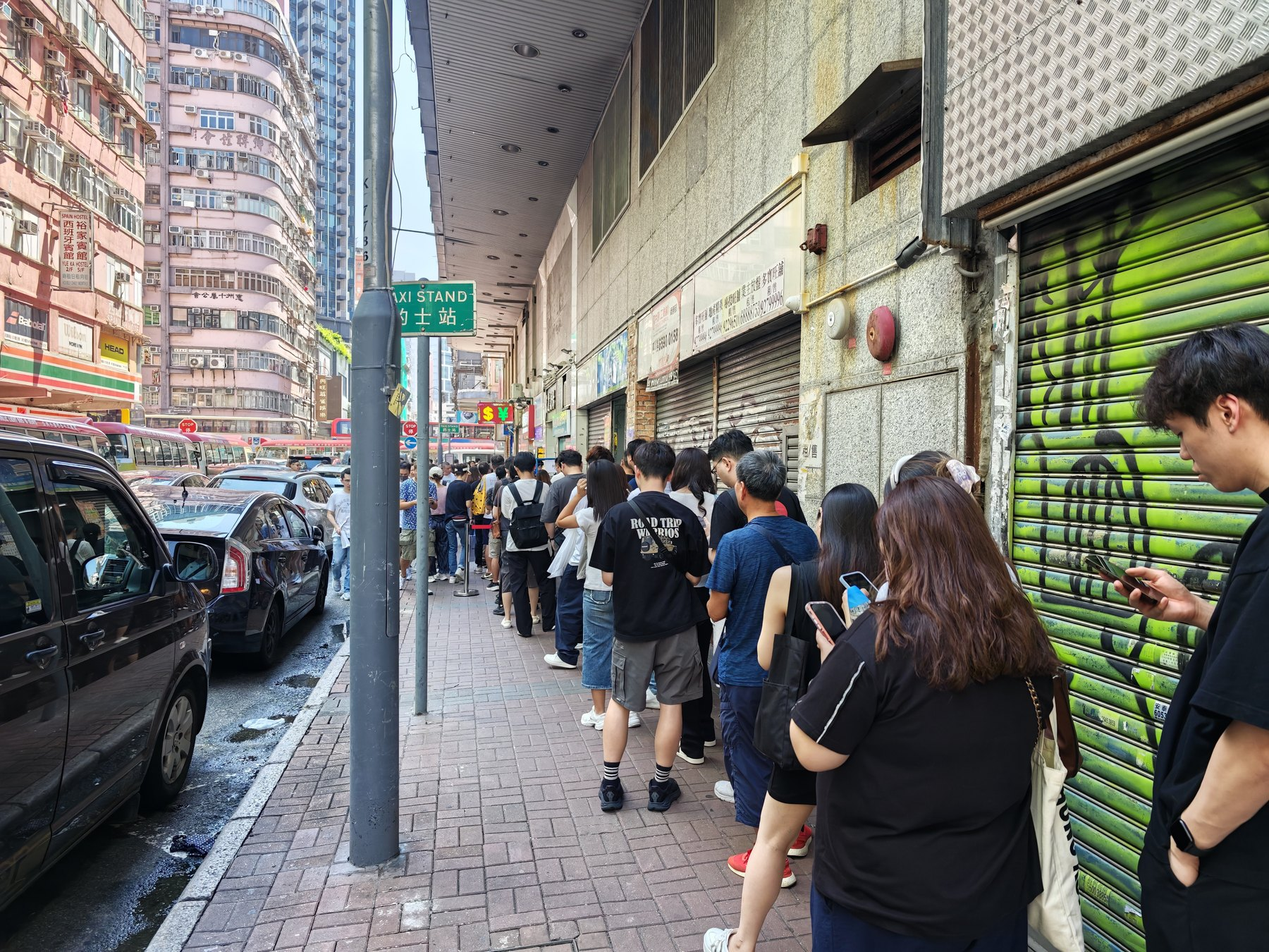
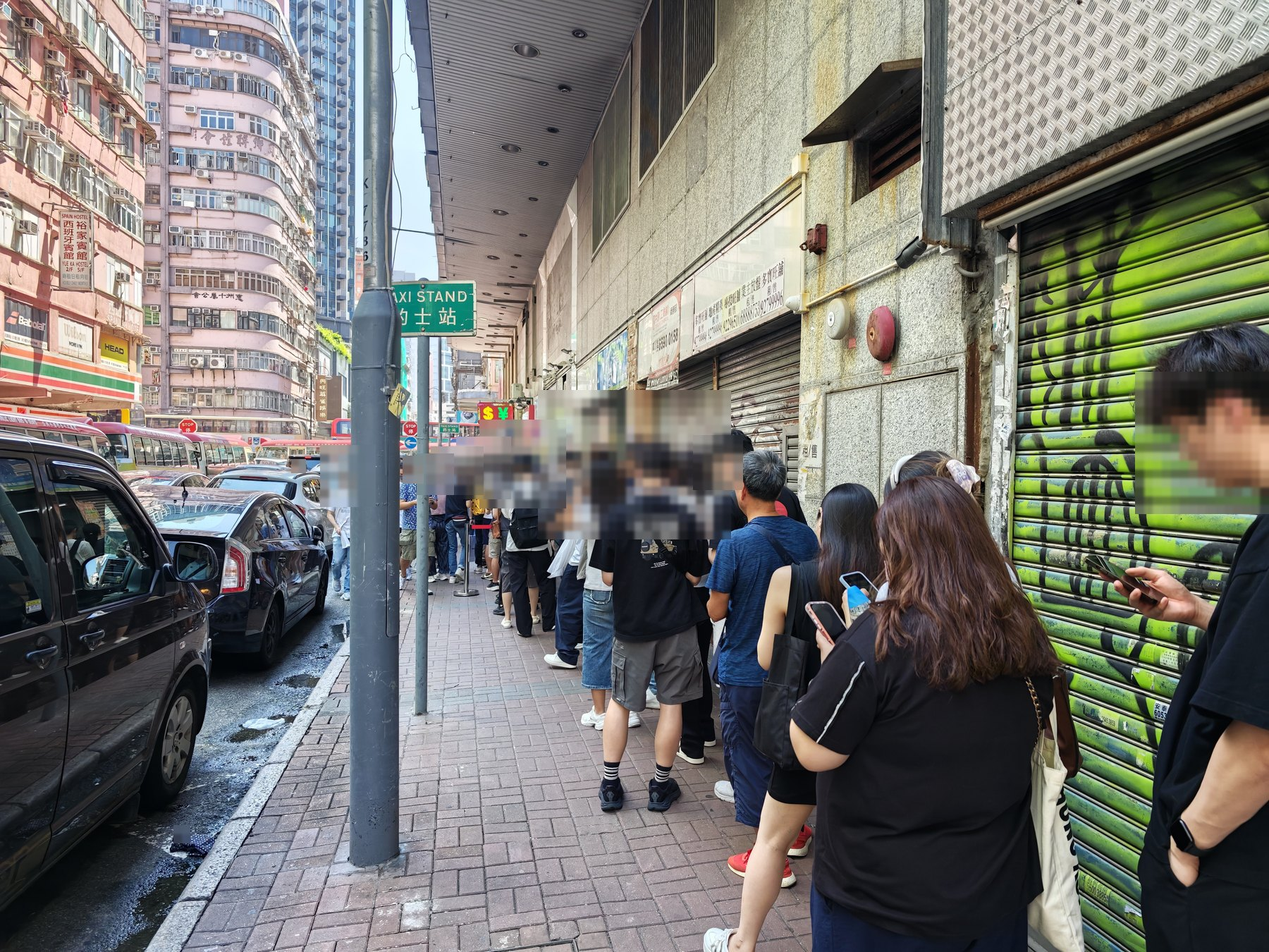
時刻を帯で色分けし、その日の写真を板の上に置く
- 朝→昼→夕を帯の色で見分けられるように（data-seq。金→空→藍）。
  同じ日に何枚も並ぶようになったので、時刻が目印になる
- buyback.dayPhotos（日付キー）を新設。板の数字だけでは伝わらない
  混み方を、その日の写真で見せる
- 顔は macOS の Vision で検出してモザイク。人混みは顔が小さく、
  画像を一枚で渡すと 4096px でも 1〜4 箇所しか返らないので、
  重なりを持たせた升目に切り、姿勢推定の頭の位置も足して潰した
- トップ写真も同じ処理をかけ直した

diff --git a/iphone18-buyback.html b/iphone18-buyback.html
@@ -45,6 +45,17 @@
             :root:not([data-theme="light"]) { --bb-up: #34d399; --bb-down: #fbbf24; --bb-red: #fca5a5; --bb-blue: #93c5fd; --bb-silver: #d1d5db; }
         }
         [data-theme="dark"] { --bb-up: #34d399; --bb-down: #fbbf24; --bb-red: #fca5a5; --bb-blue: #93c5fd; --bb-silver: #d1d5db; }
+        /* 暗いモードでは帯の文字を明るい側へ振る（暗い地に濃い色は沈む） */
+        @media (prefers-color-scheme: dark) {
+            :root:not([data-theme="light"]) .bb-shop[data-seq="1"] { --bb-ink: #fbbf24; }
+            :root:not([data-theme="light"]) .bb-shop[data-seq="2"] { --bb-ink: #7dd3fc; }
+            :root:not([data-theme="light"]) .bb-shop[data-seq="3"] { --bb-ink: #a5b4fc; }
+            :root:not([data-theme="light"]) .bb-shop[data-seq="4"] { --bb-ink: #d8b4fe; }
+        }
+        [data-theme="dark"] .bb-shop[data-seq="1"] { --bb-ink: #fbbf24; }
+        [data-theme="dark"] .bb-shop[data-seq="2"] { --bb-ink: #7dd3fc; }
+        [data-theme="dark"] .bb-shop[data-seq="3"] { --bb-ink: #a5b4fc; }
+        [data-theme="dark"] .bb-shop[data-seq="4"] { --bb-ink: #d8b4fe; }
 
         .journal-hero { position: relative; background: #1b1b1b; height: 40vh; min-height: 260px; max-height: 380px; display: flex; align-items: center; justify-content: center; color: #fff; text-align: center; overflow: hidden; margin-top: 70px; }
         @media (max-width: 620px) { .journal-hero { height: 26vh; min-height: 180px; max-height: 215px; } }
@@ -76,13 +87,27 @@
         .bb-section-title { display: flex; align-items: center; gap: 9px; font-family: 'Noto Serif JP', serif; font-size: 1.16rem; font-weight: 600; letter-spacing: 0.06em; color: var(--text-color); margin: 0 0 6px; padding-bottom: 9px; border-bottom: 1px solid var(--border-color); scroll-margin-top: 100px; }
         .bb-note { font-family: var(--primary-font); font-size: 0.82rem; line-height: 1.95; color: var(--text-light); margin: 14px 0 0; }
         .bb-day { margin-top: 30px; }
+        /* その日の様子。板の数字だけでは伝わらない混み方を見せる */
+        .bb-day-photos { display: grid; gap: 12px; margin: 14px 0 0; }
+        .bb-day-photos.is-two { grid-template-columns: repeat(2, minmax(0, 1fr)); }
+        .bb-figure { margin: 0; }
+        .bb-figure img { display: block; width: 100%; height: auto; border-radius: 12px; border: 1px solid var(--border-color); }
+        .bb-figure figcaption { font-family: var(--primary-font); font-size: 0.78rem; line-height: 1.8; color: var(--text-light); margin-top: 7px; }
+        .bb-photo-note { font-family: var(--primary-font); font-size: 0.74rem; line-height: 1.7; color: var(--text-light); margin: 8px 0 0; }
         .bb-day-title { display: flex; align-items: center; flex-wrap: wrap; gap: 10px; font-family: 'Noto Serif JP', serif; font-size: 1.05rem; font-weight: 600; letter-spacing: 0.05em; color: var(--text-color); margin: 0 0 4px; scroll-margin-top: 100px; }
         .bb-tag { font-family: var(--secondary-font); font-size: 0.68rem; font-weight: 700; letter-spacing: 0.08em; color: #fff; background: var(--accent-color); border-radius: 999px; padding: 3px 10px; }
-        .bb-shop { border: 1px solid var(--border-color); border-radius: 12px; background: var(--white); padding: 16px 18px 18px; margin-top: 14px; }
-        .bb-shop-head { display: flex; flex-wrap: wrap; align-items: baseline; gap: 8px 12px; }
-        .bb-shop-name { font-family: 'Noto Serif JP', serif; font-size: 1rem; font-weight: 600; color: var(--text-color); margin: 0; }
-        .bb-cond { font-family: var(--secondary-font); font-size: 0.68rem; font-weight: 600; letter-spacing: 0.06em; color: var(--text-light); border: 1px solid var(--border-color); border-radius: 999px; padding: 2px 9px; }
-        .bb-shop-note { font-family: var(--primary-font); font-size: 0.78rem; line-height: 1.8; color: var(--text-light); margin: 7px 0 0; }
+        .bb-shop { border: 1px solid var(--border-color); border-radius: 12px; background: var(--white); padding: 0 18px 18px; margin-top: 14px; overflow: hidden; }
+        /* 時刻の帯。同じ日に何枚も並ぶので、朝→昼→夕を色でも見分けられるようにする。
+           data-seq はその日の何枚目か。色は朝の金色から夕方の藍へ移る。 */
+        .bb-shop { --bb-band: var(--text-light); --bb-ink: var(--text-color); }
+        .bb-shop[data-seq="1"] { --bb-band: #f59e0b; --bb-ink: #a15c07; }
+        .bb-shop[data-seq="2"] { --bb-band: #0ea5e9; --bb-ink: #0369a1; }
+        .bb-shop[data-seq="3"] { --bb-band: #6366f1; --bb-ink: #4338ca; }
+        .bb-shop[data-seq="4"] { --bb-band: #a855f7; --bb-ink: #7e22ce; }
+        .bb-shop-head { display: flex; flex-wrap: wrap; align-items: baseline; gap: 8px 12px; margin: 0 -18px; padding: 11px 18px 10px; background: color-mix(in srgb, var(--bb-band) 13%, transparent); border-bottom: 2px solid var(--bb-band); }
+        .bb-shop-name { font-family: 'Noto Serif JP', serif; font-size: 1rem; font-weight: 600; color: var(--bb-ink); margin: 0; }
+        .bb-cond { font-family: var(--secondary-font); font-size: 0.68rem; font-weight: 600; letter-spacing: 0.06em; color: var(--text-light); border: 1px solid var(--border-color); border-radius: 999px; padding: 2px 9px; background: var(--white); }
+        .bb-shop-note { font-family: var(--primary-font); font-size: 0.78rem; line-height: 1.8; color: var(--text-light); margin: 13px 0 0; }
         .bb-model { font-family: var(--secondary-font); font-size: 0.84rem; font-weight: 700; letter-spacing: 0.04em; color: var(--text-color); margin: 18px 0 8px; }
         .bb-table { width: 100%; border-collapse: collapse; font-family: var(--primary-font); font-variant-numeric: tabular-nums; }
         .bb-table th, .bb-table td { text-align: right; padding: 9px 10px; border-bottom: 1px solid var(--border-color); white-space: nowrap; }
@@ -124,7 +149,9 @@
         }
         /* 色の列が並ぶ表は狭い画面で読めないので、容量ごとの塊に積み替える */
         @media (max-width: 760px) {
-            .bb-shop { padding: 14px 14px 16px; }
+            .bb-day-photos.is-two { grid-template-columns: 1fr; }
+            .bb-shop { padding: 0 14px 16px; }
+            .bb-shop-head { margin: 0 -14px; padding: 10px 14px 9px; }
             .bb-table, .bb-table tbody, .bb-table tr, .bb-table td { display: block; width: 100%; }
             .bb-table thead { position: absolute; width: 1px; height: 1px; overflow: hidden; clip: rect(0 0 0 0); white-space: nowrap; }
             .bb-table tr { border: 1px solid var(--border-color); border-radius: 12px; padding: 10px 13px; margin-bottom: 9px; background: var(--hover-color); }
@@ -198,7 +225,17 @@
             <p class="bb-note">旺角の先達廣場で、店頭に出ている買取価格の板をそのまま控えたものです。香港版の新品未開封が対象。先達廣場には同じような板を出す店が並んでいて、同じ日・同じ時刻でも店によって百ドル単位で違います。発売直後は日どころか数時間で動くので、見た時刻とあわせて残していきます。</p>
             <section class="bb-day" aria-labelledby="d2026-09-18">
               <h3 class="bb-day-title" id="d2026-09-18"><span><time datetime="2026-09-18">2026年9月18日</time>の板</span><span class="bb-tag">発売日</span></h3>
-              <section class="bb-shop">
+              <div class="bb-day-photos">
+                <figure class="bb-figure">
+                  <picture>
+                    <source srcset="/assets/images/iphone18/sintat-corner-queue.webp" type="image/webp">
+                    <img src="/assets/images/iphone18/sintat-corner-queue.jpg" alt="亞皆老街の角を回り込むように続く、買取を待つ人の列" width="1600" height="1200" loading="lazy" decoding="async">
+                  </picture>
+                  <figcaption>昼過ぎの亞皆老街。順番を待つ列がビルの角を回り込み、歩道が埋まっていました。</figcaption>
+                </figure>
+              </div>
+              <p class="bb-photo-note">写っている方の顔はぼかしています。</p>
+              <section class="bb-shop" data-seq="1">
                 <header class="bb-shop-head">
                   <h4 class="bb-shop-name">朝10時半</h4>
                   <span class="bb-cond">新品未開封</span>
@@ -308,7 +345,7 @@
                   </tbody>
                 </table>
               </section>
-              <section class="bb-shop">
+              <section class="bb-shop" data-seq="2">
                 <header class="bb-shop-head">
                   <h4 class="bb-shop-name">午後1時</h4>
                   <span class="bb-cond">新品未開封</span>
@@ -419,7 +456,7 @@
                   </tbody>
                 </table>
               </section>
-              <section class="bb-shop">
+              <section class="bb-shop" data-seq="3">
                 <header class="bb-shop-head">
                   <h4 class="bb-shop-name">午後3時半</h4>
                   <span class="bb-cond">新品未開封</span>
